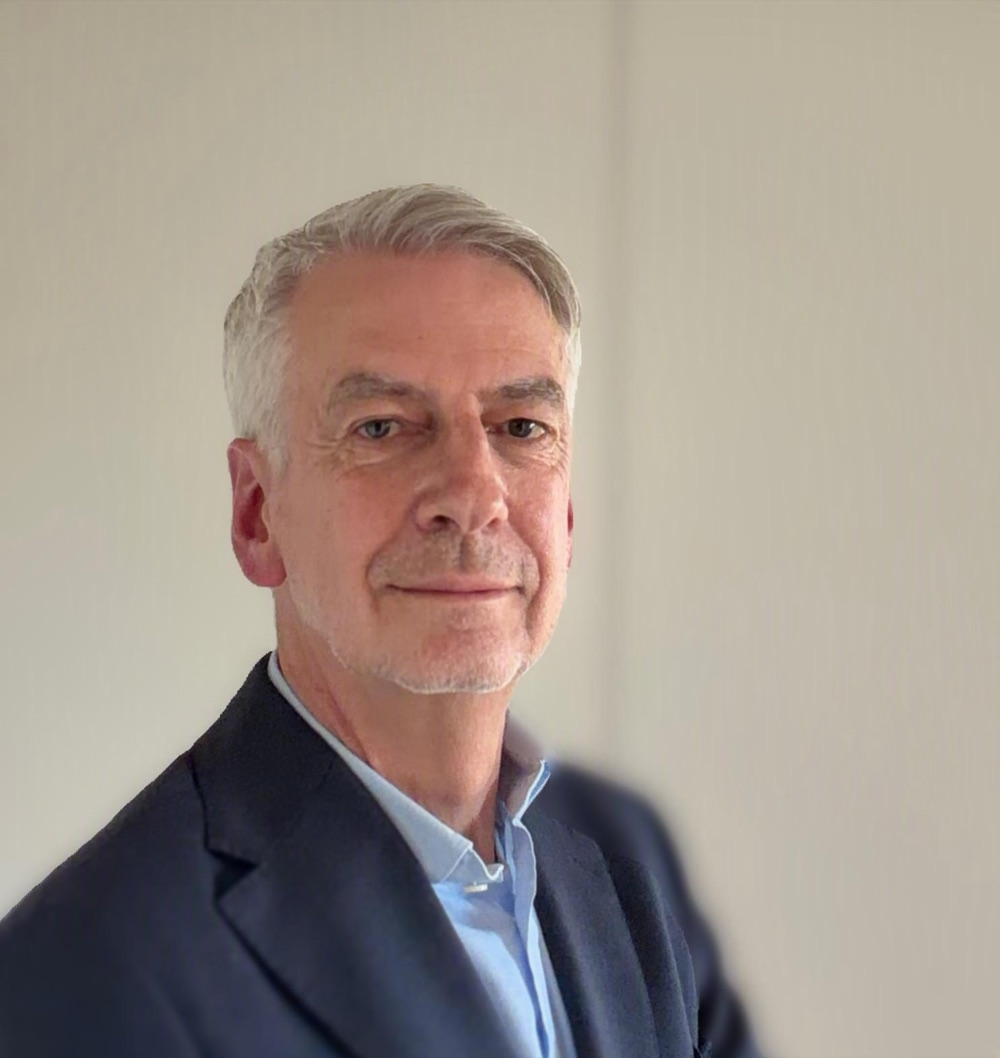
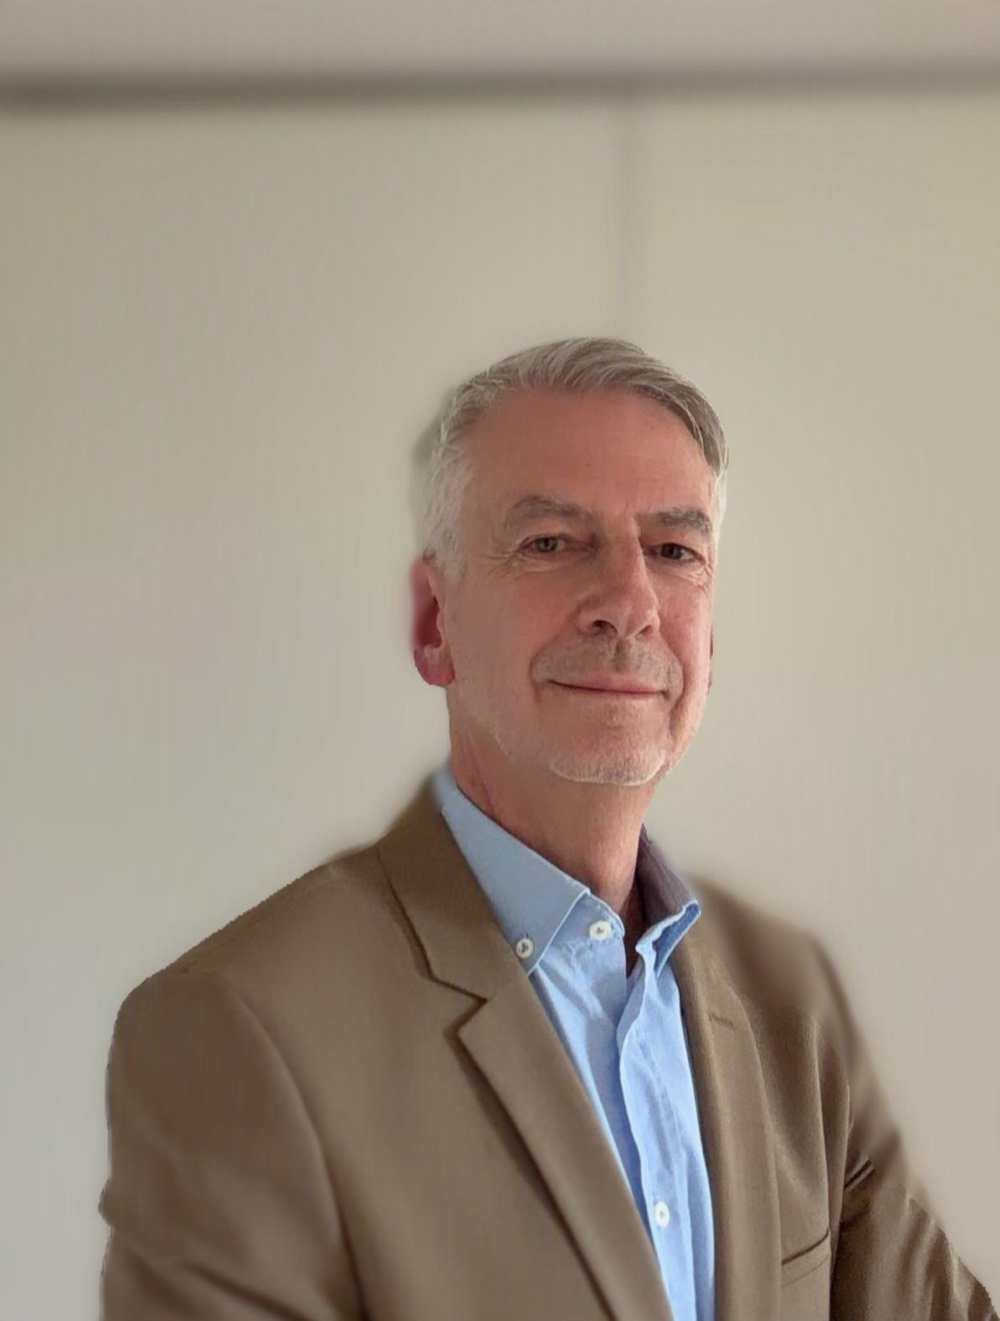
Kundenfeedback (Runde 1) eingearbeitet
- Startseite: beide Partner-Porträts auf gleicher Ebene (kein Versatz)
- Neues, professionelleres Foto von Rudolf Bäumler (helles Sakko)
- "Was uns auszeichnet" um drei Absätze erweitert (Kundentext)
- Philosophie: "gleichberechtigt" nicht mehr hervorgehoben
- Executive Diagnostics/Anspruch: "Von fundierter Diagnostik zu Besetzungs-
  und Entwicklungsentscheidungen."
- Ursula/Fachkompetenz: Dr.-med.-Zeile ans Ende
- Rudolf/Beratungskompetenz: "Executive Coaching, Onboarding, Entwicklungs-
  und Feedbackgespräche."

diff --git a/index.html b/index.html
@@ -86,7 +86,7 @@
         <figure class="portrait">
           <div class="portrait__frame">
             <img src="assets/img/rudolf-baeumler.jpg"
-                 alt="Porträt von Rudolf Bäumler" width="1000" height="1058">
+                 alt="Porträt von Rudolf Bäumler" width="1000" height="1321">
           </div>
           <figcaption>
             <span class="portrait__name">Rudolf Bäumler</span>
@@ -118,6 +118,22 @@
             Management-Diagnostik und Sparring auf höchstem Niveau. Wir bieten
             professionelle Beratungs- und Begleitungsexpertise für das C-Level
             sowie die Ebenen n-1 und n-2.
+          </p>
+          <p>
+            Wir erarbeiten Konzepte, in denen Strategie, Struktur und Kultur
+            ineinandergreifen, und begleiten Führungskräfte im Rahmen eines
+            Onboardings individuell in ihre neue Aufgabe hinein — und darüber
+            hinaus.
+          </p>
+          <p>
+            Die Nachfolgeplanung stellen wir auf eine fundierte Diagnostik: So
+            werden Entscheidungen über Besetzung und Entwicklung auf Basis
+            belastbarer Erkenntnisse über Potenzial, Passung und Reifegrad
+            getroffen.
+          </p>
+          <p>
+            Darüber hinaus stehen wir dem C-Level und Aufsichtsräten als erfahrene
+            Coaches und Sparringspartner zur Seite, national sowie international.
           </p>
         </div>
       </div>
@@ -229,7 +245,7 @@
           <div class="person-teaser__photo">
             <img src="assets/img/rudolf-baeumler.jpg"
                  alt="Porträt von Rudolf Bäumler"
-                 width="1000" height="1058" loading="lazy">
+                 width="1000" height="1321" loading="lazy">
           </div>
           <h3>Rudolf Bäumler</h3>
           <p class="person-teaser__role">Co-Founder · Top-Management Diagnostik, Leadership Development, Compensation &amp; Benefits</p>
@@ -257,7 +273,7 @@
         </div>
         <div>
           <blockquote class="pull">
-            In unserer GbR arbeiten wir <em>gleichberechtigt</em>, uns ergänzend um
+            In unserer GbR arbeiten wir gleichberechtigt, uns ergänzend um
             unsere unterschiedlichen Erfahrungshintergründe und Perspektiven — so
             ermöglichen wir vertrauensvolle Beratung auf Basis langjähriger
             Managementerfahrung in verschiedenen Branchen.

diff --git a/wer-wir-sind.html b/wer-wir-sind.html
@@ -97,11 +97,11 @@
           <div class="block">
             <h3 class="block__title">Fachkompetenz</h3>
             <ul class="bullets">
-              <li>Dr. med., Fachärztin für Psychotherapie &amp; Psychosomatische Medizin, Fachärztin für Gynäkologie &amp; Geburtshilfe (Onkologie).</li>
               <li>Zertifizierte Aufsichtsrätin (Deutsche Börse) und in Executive Diagnostics.</li>
               <li>Top-Management-Diagnostik, Executive Recruitment und strategische Nachfolgeplanung.</li>
               <li>Talentmanagement, Executive Development und Aufbau von Corporate-University- und Executive-Programmen.</li>
               <li>Konzeption und Umsetzung strategischer HR-Projekte.</li>
+              <li>Dr. med., Fachärztin für Psychotherapie &amp; Psychosomatische Medizin, Fachärztin für Gynäkologie &amp; Geburtshilfe (Onkologie).</li>
             </ul>
           </div>
 
@@ -164,7 +164,7 @@
           <div class="profile__photo">
             <img src="assets/img/rudolf-baeumler.jpg"
                  alt="Porträt von Rudolf Bäumler"
-                 width="1000" height="1058" loading="lazy">
+                 width="1000" height="1321" loading="lazy">
           </div>
           <h2 class="profile__name">Rudolf Bäumler</h2>
           <p class="profile__role">Co-Founder<br>Top-Management Diagnostik · Leadership Development · Compensation &amp; Benefits</p>
@@ -192,7 +192,7 @@
             <ul class="bullets">
               <li>Beratung und Begleitung von Top-Führungskräften und Senior Executives in Besetzung, Eignungsdiagnostik, Personal- und Karriereentwicklung.</li>
               <li>Steuerung und Durchführung von Besetzungsprozessen für Top-Management-Funktionen auf Vorstands- und Konzernleitungsebene.</li>
-              <li>Entwicklungs-, Feedback- und Coachingprozesse (individuell/Gruppe).</li>
+              <li>Executive Coaching, Onboarding, Entwicklungs- und Feedbackgespräche.</li>
               <li>Branchenkompetenz vor allem in Mobilität/Verkehr, Unternehmensberatungen und Finanzdienstleistungen — komplexe Konzernstrukturen inklusive anspruchsvoller Stakeholder-Gestaltung auf Unternehmens- wie politischen Ebenen.</li>
             </ul>
           </div>

diff --git a/assets/css/style.css b/assets/css/style.css
@@ -332,9 +332,7 @@ em, i { font-style: italic; }
 @media (max-width: 940px)  { .hero__gallery { max-width: 520px; } }
 @media (max-width: 420px)  { .hero__gallery { grid-template-columns: 1fr 1fr; gap: 12px; } }
 
-.portrait { margin: 0; }
-.portrait:nth-child(2) { margin-top: 34px; }        /* dezenter Versatz */
-@media (max-width: 940px) { .portrait:nth-child(2) { margin-top: 0; } }
+.portrait { margin: 0; }        /* beide Porträts auf gleicher Ebene */
 
 .portrait__frame {
   aspect-ratio: 4 / 5; overflow: hidden;

diff --git a/leistungen.html b/leistungen.html
@@ -86,7 +86,7 @@
           </ul>
           <div class="claim-box">
             <p class="claim-box__label">Unser Anspruch</p>
-            <p>Von der Diagnostik über die Entwicklungsperspektiven und Gestaltung zum Top-Management-Erfolg.</p>
+            <p>Von fundierter Diagnostik zu Besetzungs- und Entwicklungsentscheidungen.</p>
           </div>
         </div>
       </div>